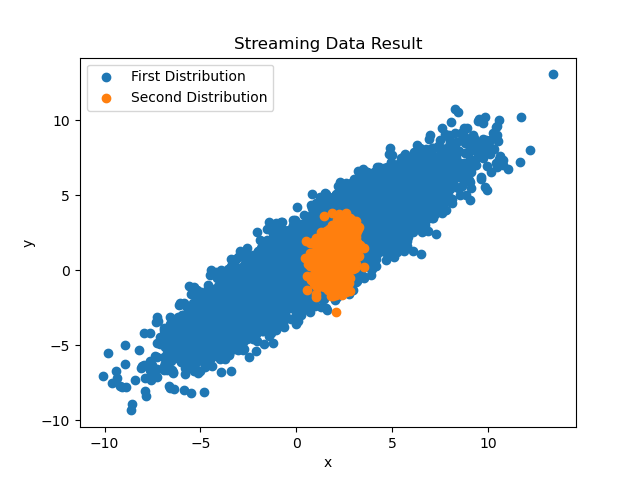
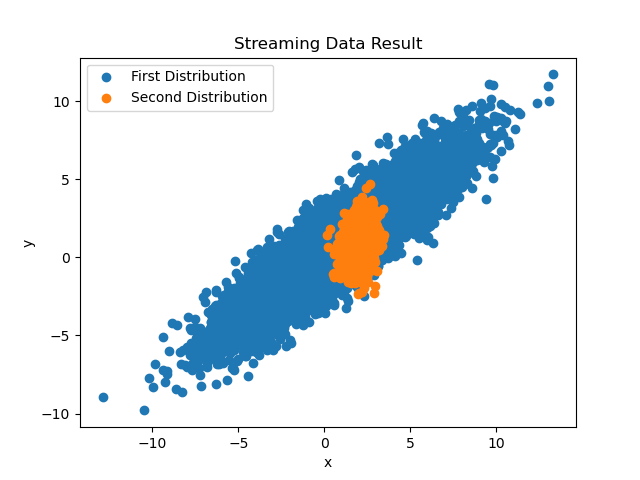
Updated the random generator.

diff --git a/scenario/ifttt/streaming/run_scenario.py b/scenario/ifttt/streaming/run_scenario.py
@@ -22,7 +22,7 @@ def schwefel_func(x):
 
 if __name__ == '__main__':
     # Set up the numpy random seed
-    rng = default_rng(710)
+    rng = default_rng([710, 710])
 
     # Set up Redis
     redis_client = redis.Redis('localhost', 6379)
